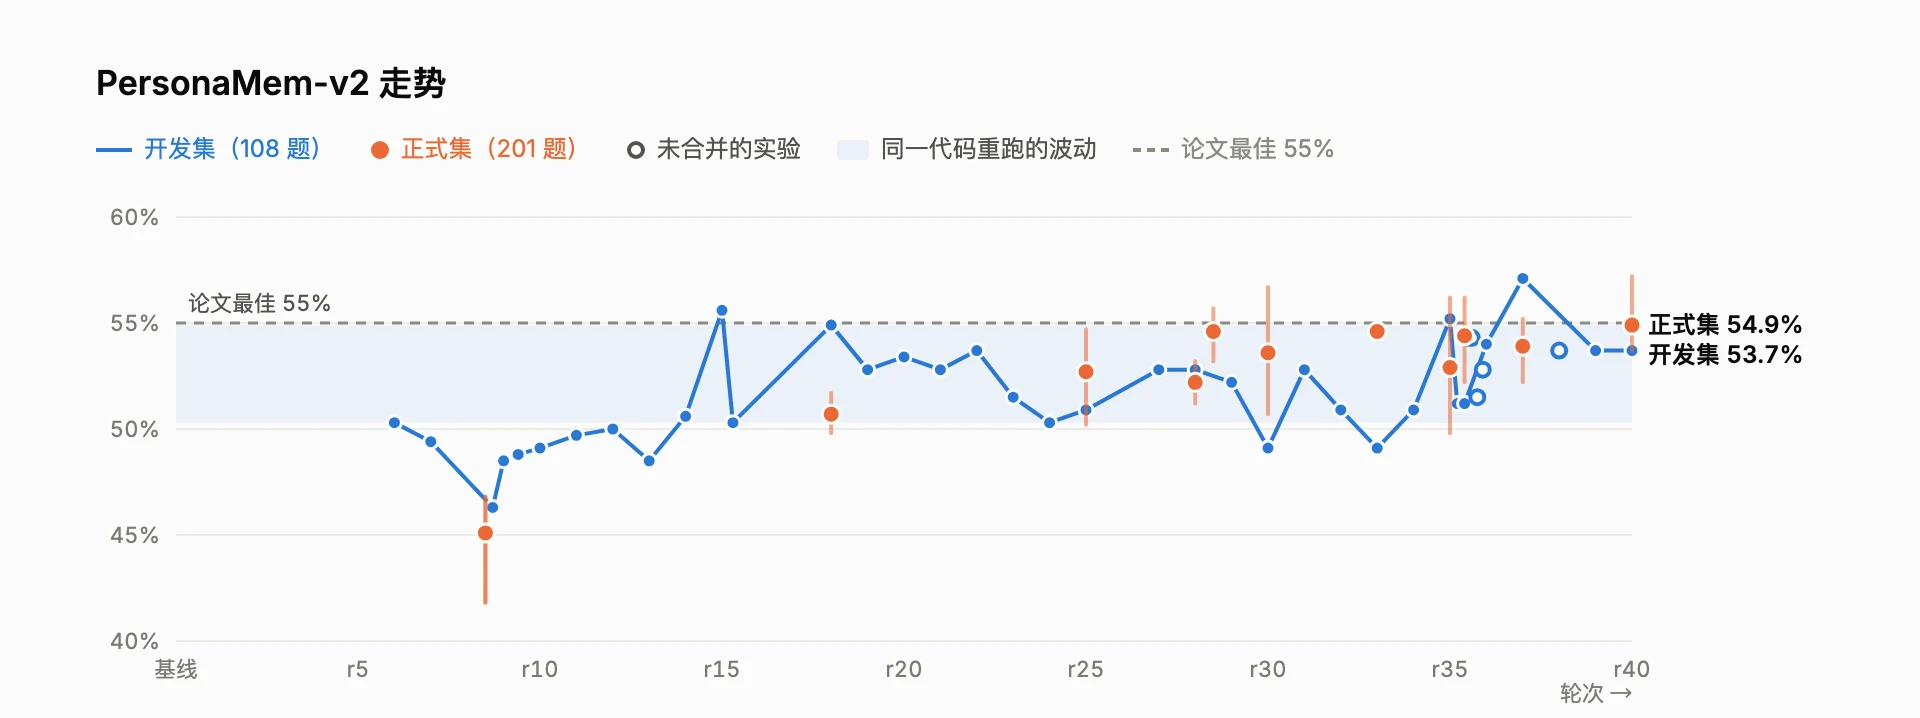
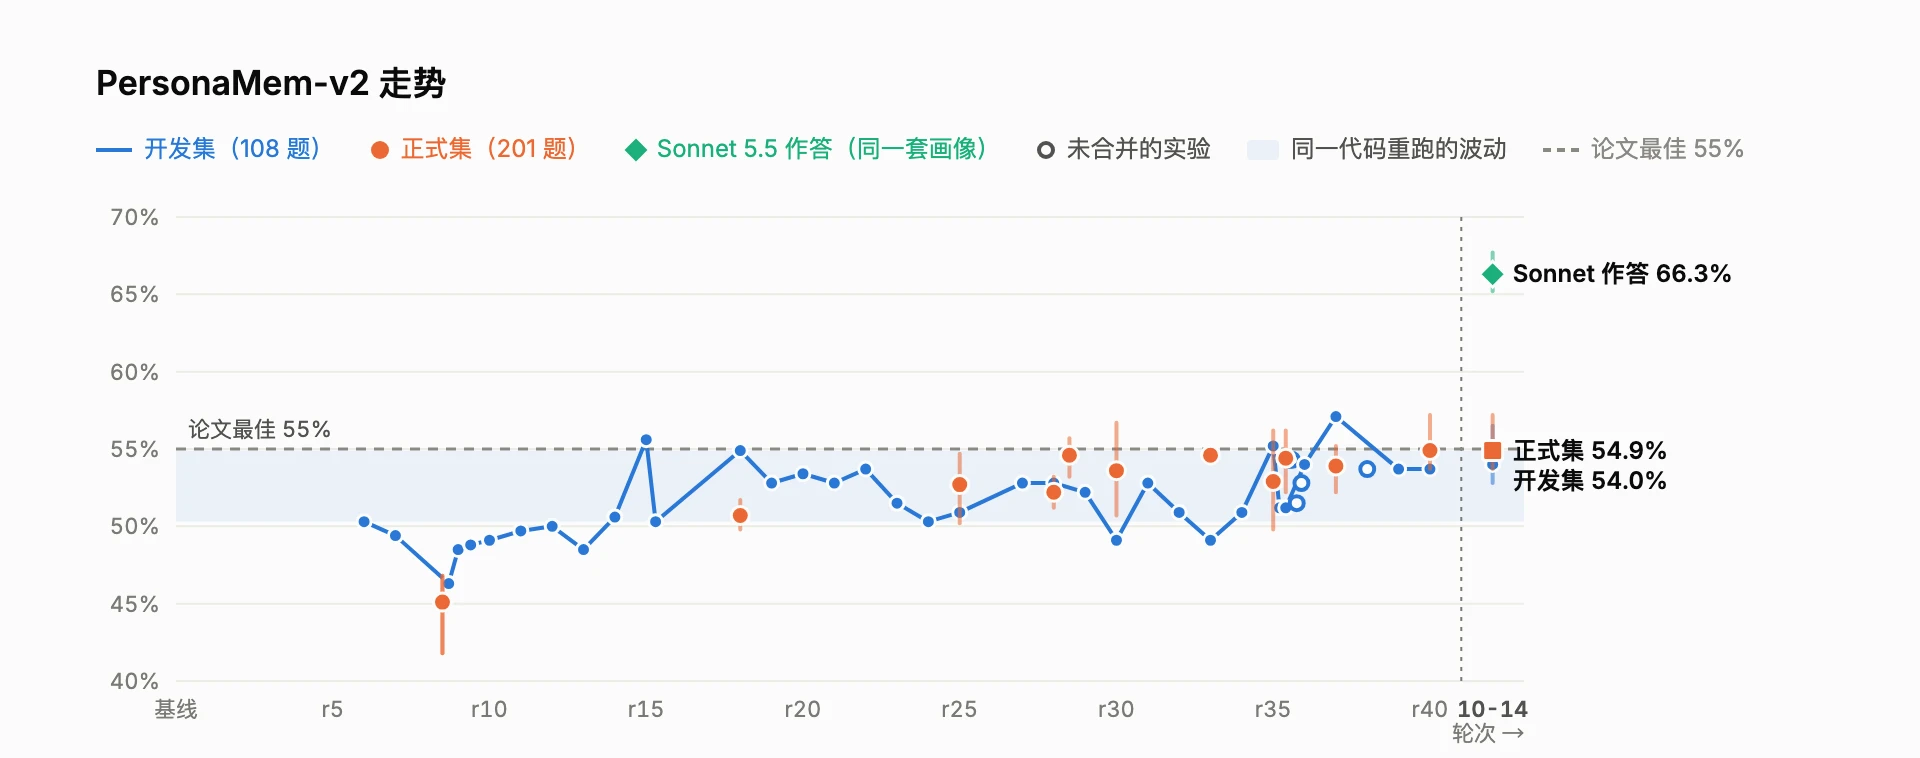
Trend charts add the 10-14 slot: the new dev sample, the 60-question formal set and Sonnet 5.5 answering the same profiles

diff --git a/README.md b/README.md
@@ -149,13 +149,13 @@ flowchart LR
 
 ### 迭代走势
 
-蓝线是开发集，橙点是正式集（每种题型 5 题的 30 题版），竖线是同一代码跑 3 次的范围，空心点是没有合并的实验。都由 `gpt-6-luna` 作答。
+蓝线是开发集，橙色圆点是正式集（每种题型 5 题的 30 题版），竖线是同一代码跑 3 次的范围，空心点是没有合并的实验，都由 `gpt-6-luna` 作答。最右边虚线后的“10-14”是新口径：开发集换成不含任何正式题的新抽样，橙色方块是扩大后的正式集（LongMemEval 60 题），绿色菱形是同一套画像改由 Sonnet 5.5 作答。新口径和左边的折线不能直接比。
 
 ![LongMemEval 各轮走势](docs/assets/trend-longmemeval.webp)
 
 ![PersonaMem-v2 各轮走势](docs/assets/trend-personamem2.webp)
 
-薄弱题型单独加题复测：多会话、知识更新、时间推理各 48–73 题，每题跑 2 次。题量扩大处折线断开。
+薄弱题型单独加题复测：多会话、知识更新、时间推理各 48–73 题，每题跑 2 次，`gpt-6-luna` 作答。题量扩大处折线断开；“10-14”是新开发集上各 48 题的基线。
 
 ![LongMemEval 薄弱题型走势](docs/assets/trend-weak-types.webp)
 
